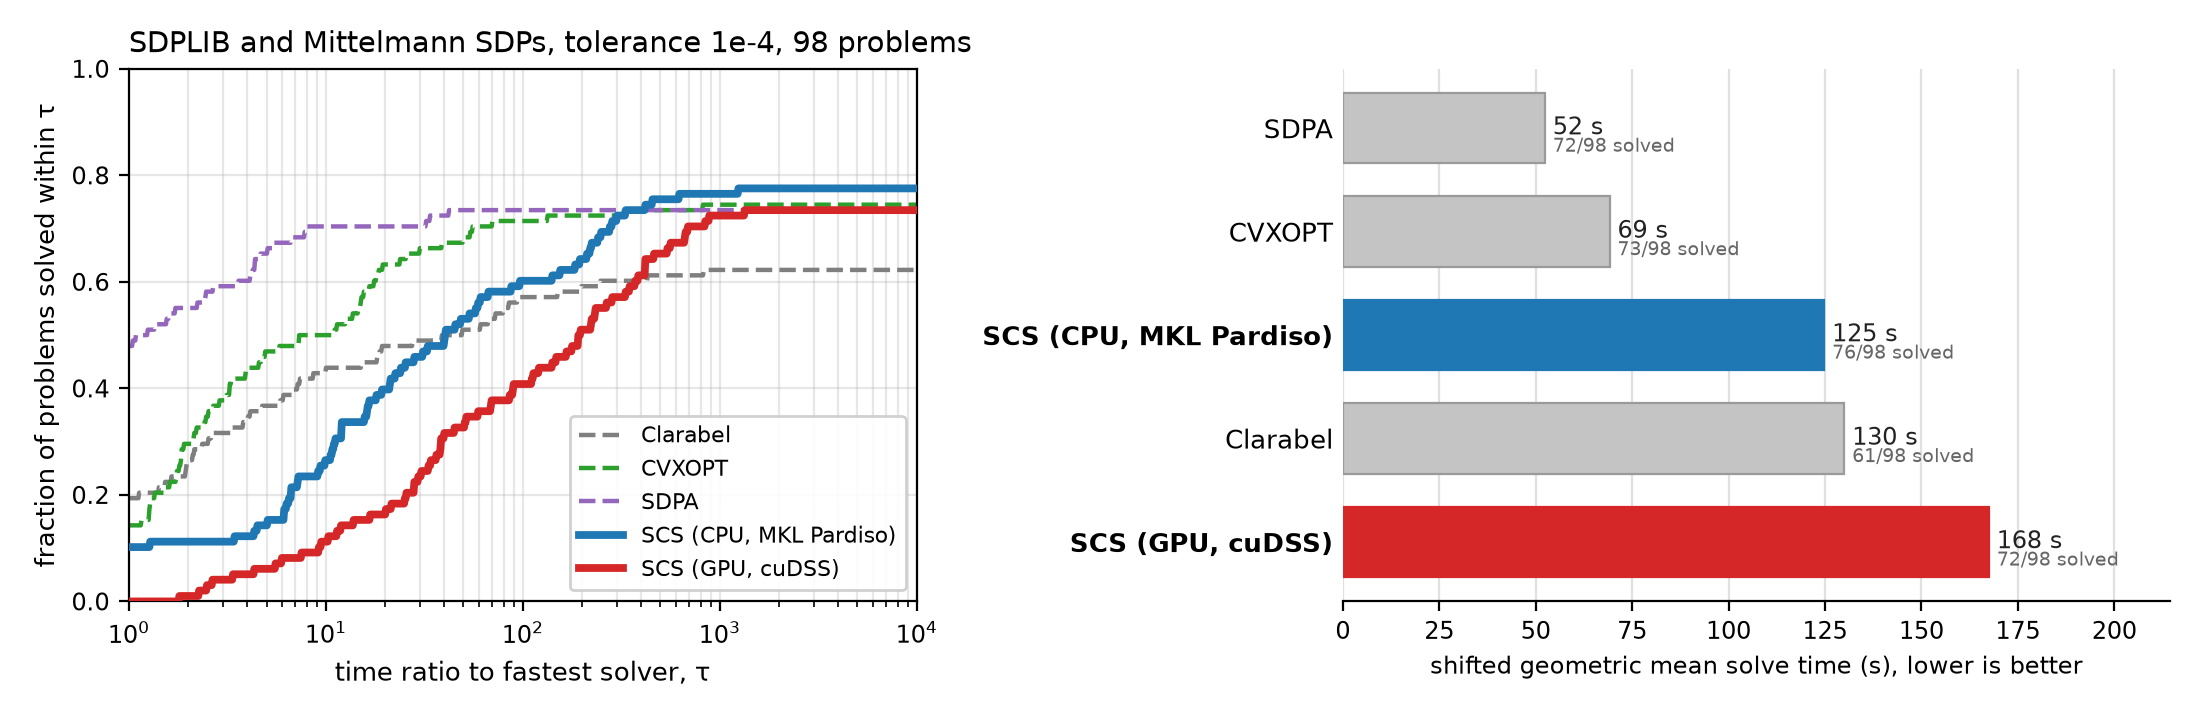
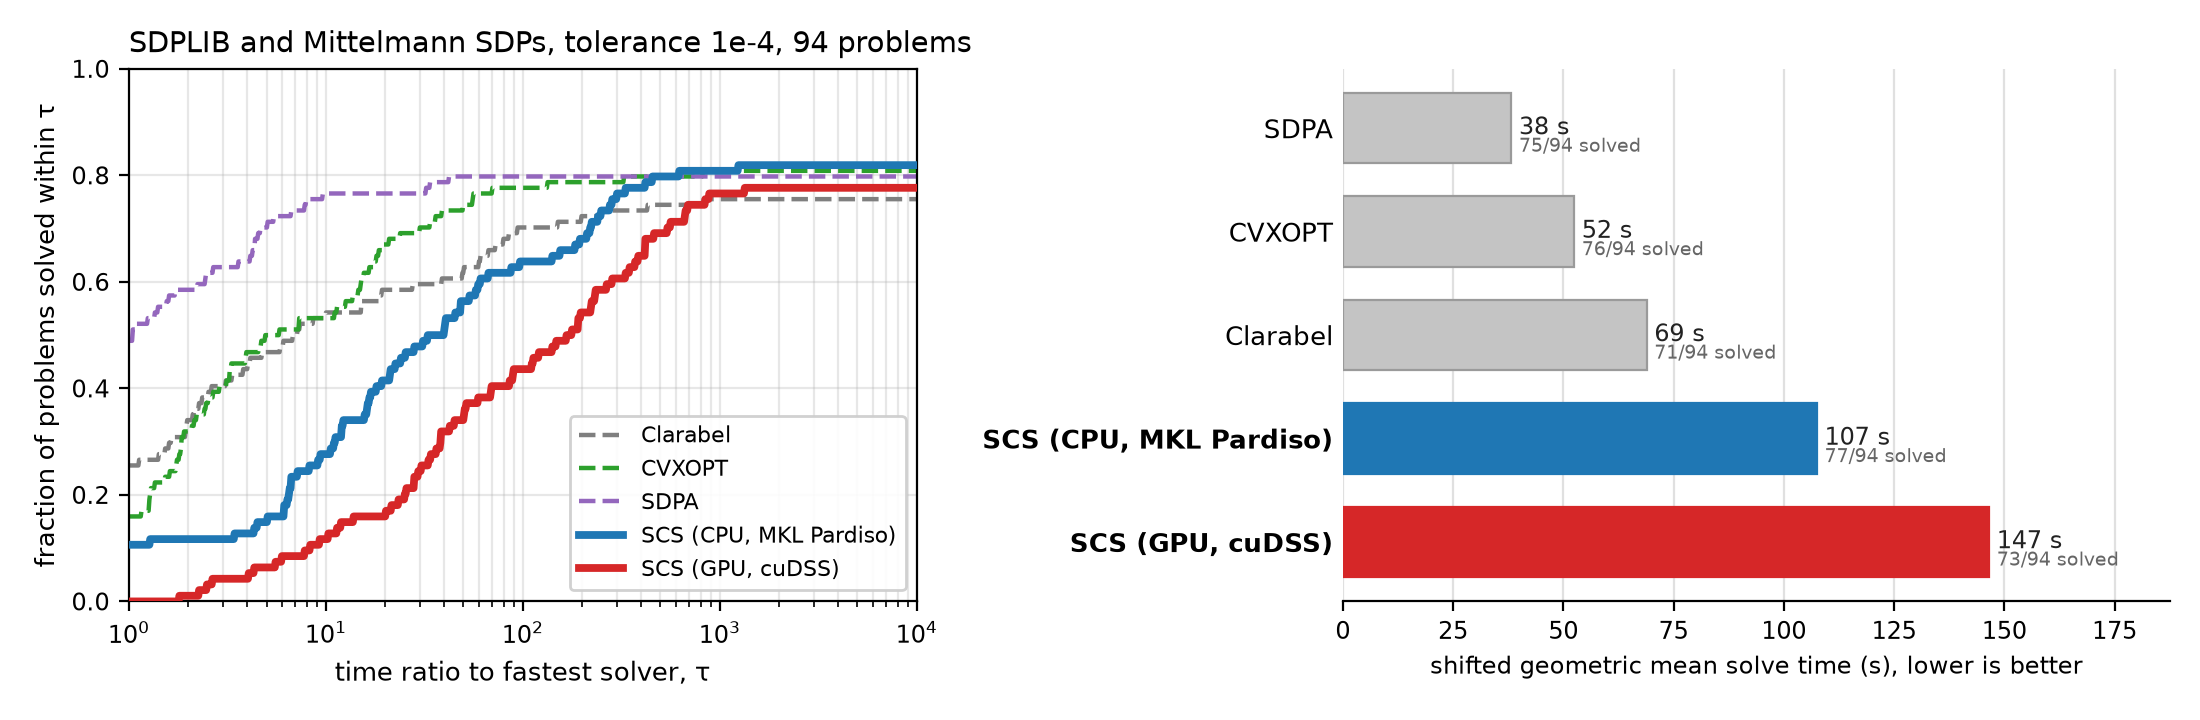
benchmarks: SDP section from the corrected converter and the Clarabel attempts
- Mittelmann SDPs, maxG55/maxG60 and thetaG51 re-run for every solver
  from the original SDPA-S files (the converted archive negated the
  problem, and three of its files were corrupt).
- Every SDPLIB instance with a PSD block of order 500 or more was run for
  Clarabel on its own; the notes list solved / time limit / memory limit
  per instance instead of a blanket exclusion.
- SDPLIB's four infeasible instances are left out (every solver reports
  them infeasible; the plots measure time to a verified optimum): 94
  problems.
- SDP narrative rewritten: SCS has the highest success rate (77 of 94)
  but an interior-point solver is the better default.

diff --git a/docs/src/benchmarks/index.rst b/docs/src/benchmarks/index.rst
@@ -16,10 +16,10 @@ The short version: on the QP and LP test sets SCS is competitive with the best
 interior-point codes and clearly ahead of the other first-order solvers, the
 cuDSS GPU backend is the fastest solver we tested on the largest quarter of the
 QP problems, and on the large LPs of the Mittelmann set SCS with cuDSS solves
-more instances than any other solver. On the SDP test sets the interior-point solvers are faster on
-the small, ill-conditioned control and truss instances, while SCS is the
-fastest solver on the large sparse combinatorial relaxations; see
-:ref:`bench_sdp` before choosing a solver for semidefinite problems.
+more instances than any other solver. On the SDP test sets SCS verifies the
+most solutions, but the interior-point solvers SDPA and CVXOPT are much faster
+on the problems they do solve; see :ref:`bench_sdp` before choosing a solver
+for semidefinite problems.
 
 .. _bench_headline:
 
@@ -118,7 +118,7 @@ returns that failed the check excluded for every solver.
      - 7e-5
      - 3e-4
      - 1e-4
-     - 1e-4
+     - 2e-4
    * - SCS (GPU, cuDSS)
      - 1e-4
      - 2e-5
@@ -127,7 +127,7 @@ returns that failed the check excluded for every solver.
      - 9e-5
      - 6e-5
      - 1e-4
-     - 9e-5
+     - 1e-4
      - 2e-4
    * - OSQP
      - 1e-4
@@ -177,8 +177,8 @@ returns that failed the check excluded for every solver.
      - 2e-6
      - 2e-7
      - 2e-6
-     - 1e-6
-     - 2e-5
+     - 2e-6
+     - 3e-5
    * - PIQP
      - 1e-6
      - 8e-10
@@ -252,13 +252,17 @@ via sdpa-python 0.2.3, each the latest release on PyPI in September
 **Problem sets.** QP: Maros-Meszaros (138) and the QPLIB continuous convex
 subset (19). LP: Netlib (feasible), Kennington and the root LP relaxations of
 all 240 instances of the MIPLIB 2017 benchmark set; the Mittelmann LP set is
-its own section. SDP: SDPLIB and the
-Mittelmann SDP set. "Largest quartile" means the quarter of each family with
+its own section. SDP: the 88 feasible SDPLIB instances and the 6 Mittelmann
+SDPs; SDPLIB's four infeasible instances (``infd1``, ``infd2``, ``infp1`` and
+``infp2``) are reported infeasible by every solver and are left out, since the
+plots measure the time to a verified optimum. "Largest quartile" means the quarter of each family with
 the most nonzeros in the constraint matrix (plus the Hessian for QPs).
 
-**Exclusions.** Clarabel ran out of memory (64 GB) on the SDPLIB instances
-with PSD blocks of order 500 or more; those instances are counted as failures
-for it. SDPA does not take a time limit but never needed one.
+**Exclusions.** Clarabel was killed at the 64 GB memory limit on
+``equalG11``, ``equalG51``, ``maxG55``, ``maxG60`` and ``G40mc``; those count
+as failures for it (the notes below list the outcome on every other large
+SDP). SDPA does not take a time limit; the harness killed it at the limit plus
+grace on ``maxG60``, which counts as a failure.
 cuOpt's QP path is an interior-point method whose factorization failed with a
 numerical error on a subset of the Maros-Meszaros problems; those count as
 failures.
@@ -561,28 +565,33 @@ format and were decoded with ``emps`` before use.
 Semidefinite programs
 ---------------------
 
-98 problems: SDPLIB and the Mittelmann SDP set. Two things are true at once
-here and the plots show both. SCS verifies more SDPs than any other solver,
-76 of 98 on the CPU, because it is the only solver that copes with the
-large sparse combinatorial relaxations (``theta``, ``mcp``, ``maxG``,
-``qpG`` and ``equalG``, where the interior-point methods run out of time or
-memory). But on the small, ill-conditioned ``control``, ``truss``, ``arch``
-and ``gpp`` instances an interior-point method is the right tool: SDPA and
-CVXOPT finish in seconds where SCS needs hundreds of thousands of iterations
-and often runs to the 900 s limit, so SDPA and CVXOPT have the better
-geometric mean time despite solving fewer problems. The GPU does not help on
-SDPs: the time goes into the eigendecompositions of the cone projection, not
-the linear system.
+94 problems: the 88 feasible SDPLIB instances and the 6 Mittelmann SDPs.
+This is the family where an interior-point method is the better default, and
+the plot says so: SDPA and CVXOPT verify nearly as many problems as SCS in a
+fraction of the time. SCS on the CPU has the highest success rate, 77 of 94,
+because it is the only solver without a blind spot in this set: SDPA fails
+the ``hinf`` and ``qap`` instances, CVXOPT and Clarabel run out of time or
+memory on the large sparse relaxations, while SCS's failures are the small,
+badly conditioned ``control``, ``truss`` and ``gpp`` instances, on which it
+spends hundreds of thousands of iterations and often the whole 900 s limit
+where an interior-point solver finishes in seconds. Those slow solves, more
+than the failures, are what put SCS last in geometric mean time. On the large
+sparse combinatorial relaxations (``theta``, ``mcp``, ``maxG``, ``qpG`` and
+``equalG``, 31 instances) SCS verifies 28 on the CPU and 29 on the GPU, but
+SDPA verifies 30, including ``maxG55`` with a PSD block of order 5000, so
+even there SCS is not ahead. The GPU does not help on SDPs: the time goes into
+the eigendecompositions of the cone projection, not the linear system.
 
-If your problem has a few large PSD blocks and moderate accuracy is enough,
-SCS is a good choice; if it has many small blocks or is badly conditioned, use
-an interior-point solver.
+Use an interior-point solver for SDPs when it fits in memory. SCS is the
+fallback when it does not (Clarabel and CVXOPT run out of memory or time on
+the largest instances here), or when a moderately accurate solution is enough
+and SCS is already solving the rest of your problems.
 
 .. figure:: ../files/bench/sdp_1e-4_pair.png
    :width: 100 %
    :align: center
 
-.. list-table:: SDP: verified solves and shifted geometric mean time (s); all 98 problems / largest quartile (28)
+.. list-table:: SDP: verified solves and shifted geometric mean time (s); all 94 problems / largest quartile (24)
    :header-rows: 1
    :widths: 26 12 12 12 12 12 12 12 12
 
@@ -596,46 +605,46 @@ an interior-point solver.
      - solved 1e-6 (largest)
      - gm 1e-6 (largest)
    * - SDPA
-     - 72
-     - 52.4
-     - 23
-     - 44.3
-     - 66
-     - 77.7
-     - 23
-     - 44.3
+     - 75
+     - 38.2
+     - 21
+     - 38.6
+     - 69
+     - 58.6
+     - 21
+     - 38.6
    * - CVXOPT
-     - 73
-     - 69.2
-     - 22
-     - 79.5
-     - 59
-     - 164.7
-     - 20
-     - 120.4
-   * - SCS (CPU, MKL Pardiso)
      - 76
-     - 124.8
+     - 52.4
      - 18
-     - 963.4
-     - 50
-     - 317.8
-     - 2
-     - 2489.3
+     - 111.5
+     - 62
+     - 132.5
+     - 16
+     - 178.6
    * - Clarabel
-     - 61
-     - 130.0
-     - 16
-     - 243.3
-     - 60
-     - 138.3
-     - 16
-     - 243.3
-   * - SCS (GPU, cuDSS)
-     - 72
-     - 167.5
+     - 71
+     - 68.9
      - 13
-     - 1419.1
+     - 257.0
+     - 69
+     - 75.7
+     - 12
+     - 283.1
+   * - SCS (CPU, MKL Pardiso)
+     - 77
+     - 107.5
+     - 14
+     - 1090.7
+     - 51
+     - 274.0
+     - 2
+     - 2455.8
+   * - SCS (GPU, cuDSS)
+     - 73
+     - 146.5
+     - 9
+     - 1531.0
      - 0
      - 2700.0
      - 0
@@ -848,9 +857,14 @@ Notes on individual solvers
   out on many of the larger problems.
 * **Clarabel.** Shown from its :math:`10^{-6}` run on QP and LP and from its
   default :math:`10^{-8}` run on SDP, where its termination test leaves the
-  loosest unscaled residuals of any solver at a given setting. Ran out of
-  memory (64 GB) on ``equalG11``, which has a PSD block of order 801, so the
-  other SDPLIB instances with PSD blocks of order 500 or more were not
-  attempted; all of them are counted as failures for it.
+  loosest unscaled residuals of any solver at a given setting. Every SDPLIB
+  instance with a PSD block of order 500 or more was run on its own in a
+  64 GB container: Clarabel solves ``maxG11``, ``maxG32``, ``thetaG11``,
+  ``qpG11``, ``mcp500-1`` and ``mcp500-2``; reaches the 900 s limit on
+  ``maxG51``, ``qpG51``, ``thetaG51``, ``mcp500-3``, ``mcp500-4`` and
+  ``gpp500-1`` to ``gpp500-4``; and is killed at the memory limit on
+  ``equalG11``, ``equalG51``, ``maxG55``, ``maxG60`` and the Mittelmann
+  ``G40mc``.
 * **SDPA and CVXOPT.** Interior-point SDP solvers. SDPA does not take a time
-  limit; its longest solve was 154 s, well inside the 900 s limit.
+  limit; its longest verified solve was 795 s (``maxG55``), inside the 900 s
+  limit, and it was killed at the limit on ``maxG60``.
